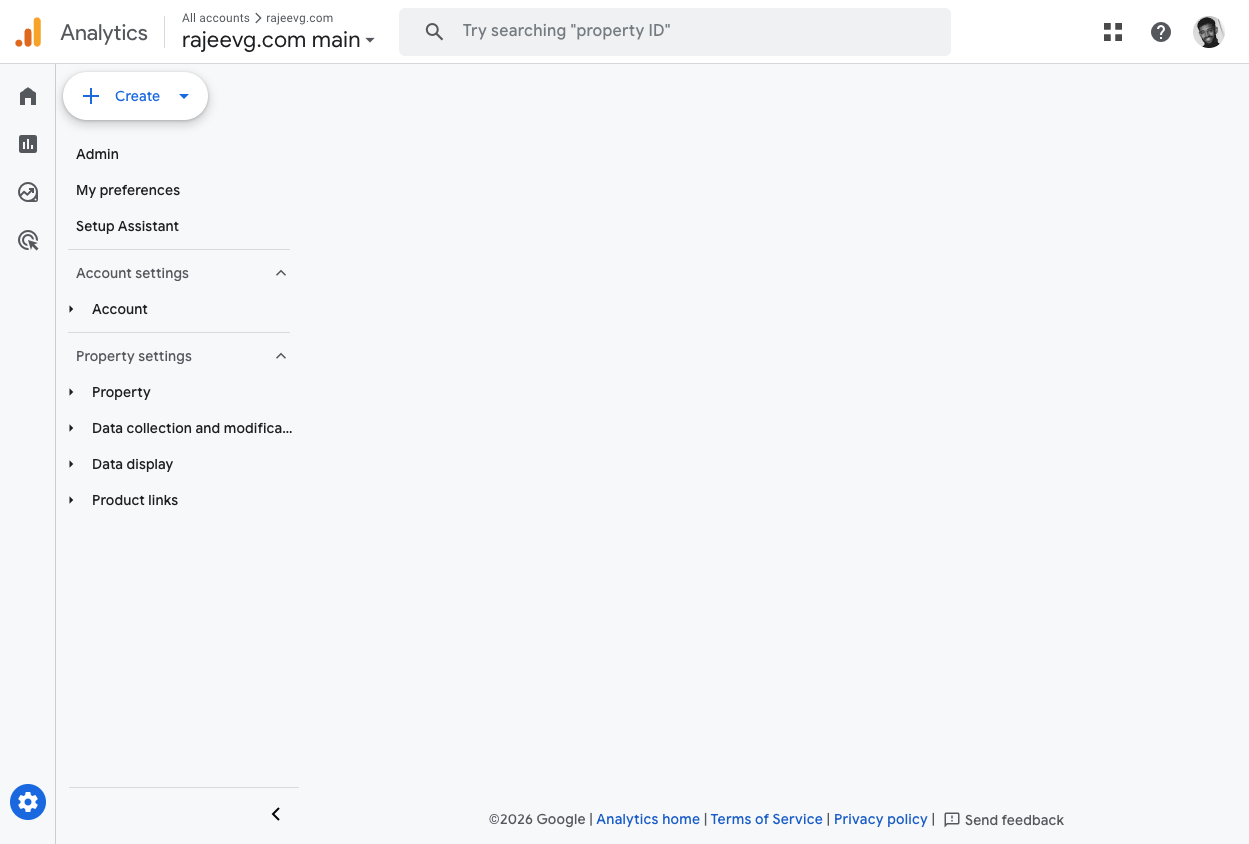
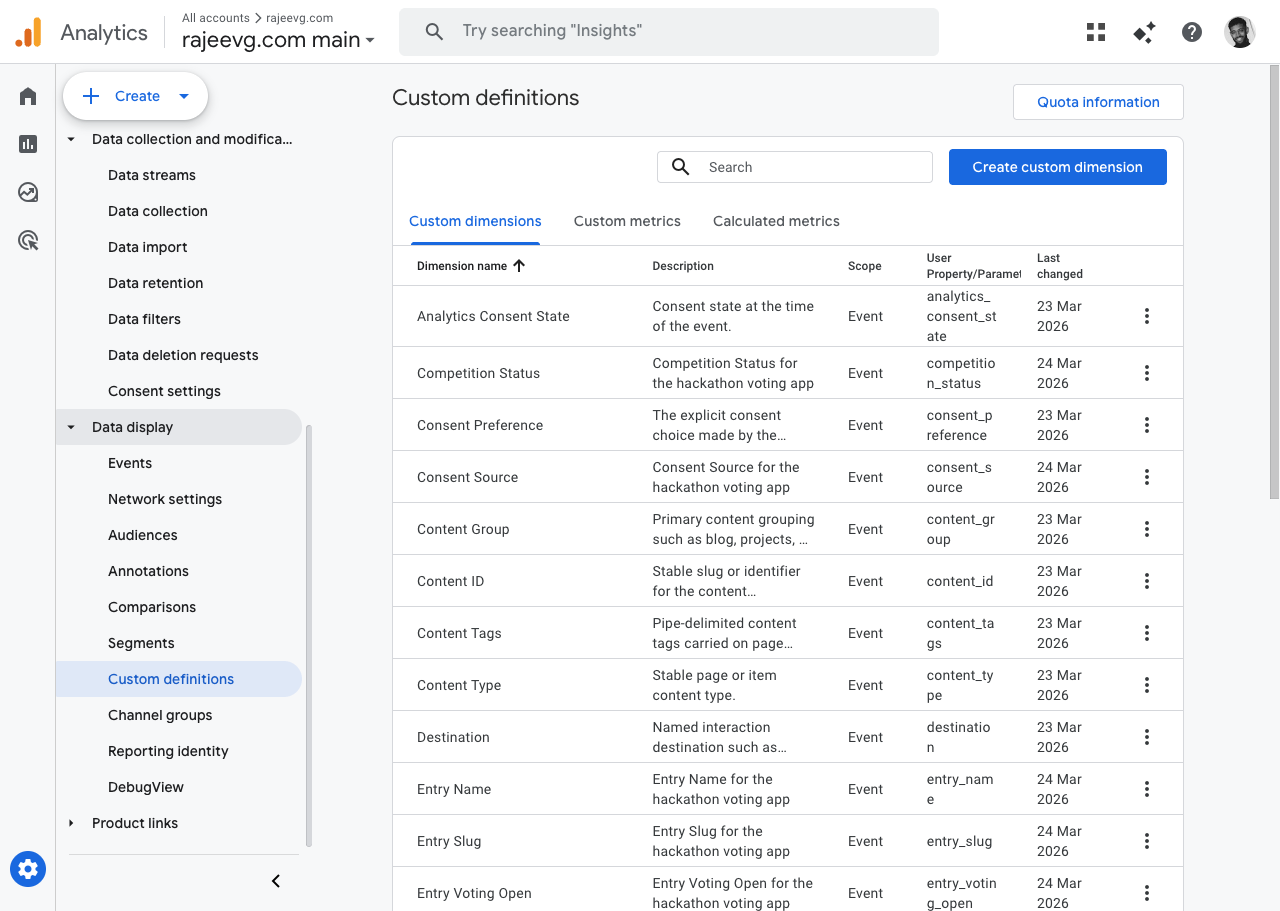
content: polish analytics screenshot proof
Why
The GA4 property article and analytics stack article both had evidence issues: one realtime caption overclaimed what was visible, the GA custom-definitions screenshot was blank, the Looker image was weak, and the 14-month data-retention setting was undocumented.

What
Replaced the realtime, data-retention, GTM, GA custom-definitions, and Looker screenshots with truthful live captures. Rewrote the affected captions and surrounding copy so they only claim what is visibly present or explicitly framed as cross-check context. Added a fresh acceptance proof pack for the local and production audit pass.

Validation
pnpm lint
pnpm build
playwright-cli screenshots for both analytics articles on local desktop/mobile
vercel deploy --prod --yes
playwright-cli screenshots for both analytics articles on production desktop/mobile
curl -I checks for both production article URLs and replacement production image assets
GA4 realtime API cross-check confirming project_click = 2

diff --git a/output/acceptance/analytics-polish-20260324/proof.md b/output/acceptance/analytics-polish-20260324/proof.md
@@ -1,0 +1,59 @@
+# Analytics Screenshot Polish Proof
+
+Date: 2026-03-24
+
+## Scope
+
+- `/blog/how-we-finished-the-ga4-property-setup-on-rajeevg-com`
+- `/blog/how-we-built-a-consented-first-party-analytics-stack`
+
+## What was corrected
+
+- Replaced the GA4 realtime screenshot with a capture that visibly shows `project_click` in the key-events card.
+- Added an explicit GA4 data-retention screenshot showing `14 months` for both event and user data retention.
+- Replaced the previously blank GA4 custom-definitions screenshot with a loaded table from the live property.
+- Replaced the weak Looker Studio image with a populated audience-and-devices page.
+- Replaced the weak GTM screenshots with truthful web/server GTM evidence from the live interfaces.
+- Rewrote captions so they only claim what is visible in the image or clearly framed cross-check context.
+
+## Local validation
+
+- `pnpm lint` passed.
+- `pnpm build` passed.
+- Fresh local screenshots captured with Playwright CLI:
+  - `local-ga4-property-desktop.png`
+  - `local-ga4-property-mobile.png`
+  - `local-analytics-stack-desktop.png`
+  - `local-analytics-stack-mobile.png`
+
+## Production validation
+
+- Production deploy completed and aliased to `https://rajeevg.com`.
+- Fresh production screenshots captured with Playwright CLI:
+  - `prod-ga4-property-desktop.png`
+  - `prod-ga4-property-mobile.png`
+  - `prod-analytics-stack-desktop.png`
+  - `prod-analytics-stack-mobile.png`
+- Both article URLs returned `HTTP/2 200`:
+  - `https://rajeevg.com/blog/how-we-finished-the-ga4-property-setup-on-rajeevg-com`
+  - `https://rajeevg.com/blog/how-we-built-a-consented-first-party-analytics-stack`
+- Replacement image assets returned `HTTP/2 200` from production:
+  - `ga4-realtime-overview.png`
+  - `ga4-data-retention.png`
+  - `ga-custom-definitions.png`
+  - `looker-dashboard-audience-devices.png`
+- GA4 realtime API cross-check after the fresh production interaction pass:
+  - `project_click = 2`
+  - top custom-event mix still included `scroll_depth`, `article_progress`, `page_engagement_summary`, `engaged_time`, `page_context`, and `post_click`
+
+## Manual screenshot audit notes
+
+- GA4 property article:
+  - Realtime caption now matches the visible lower-card content and `project_click` count.
+  - DebugView caption matches the empty debug surface.
+  - Data-retention text now explicitly mentions the 14-month setting and is backed by a screenshot.
+- Analytics stack article:
+  - Custom-definitions image is no longer blank.
+  - Looker image is no longer sparse or misleading.
+  - Server-side GTM now uses the versions page because it is the truthful proof surface.
+  - Web GTM now uses the lean live workspace instead of an unhelpful older crop.
